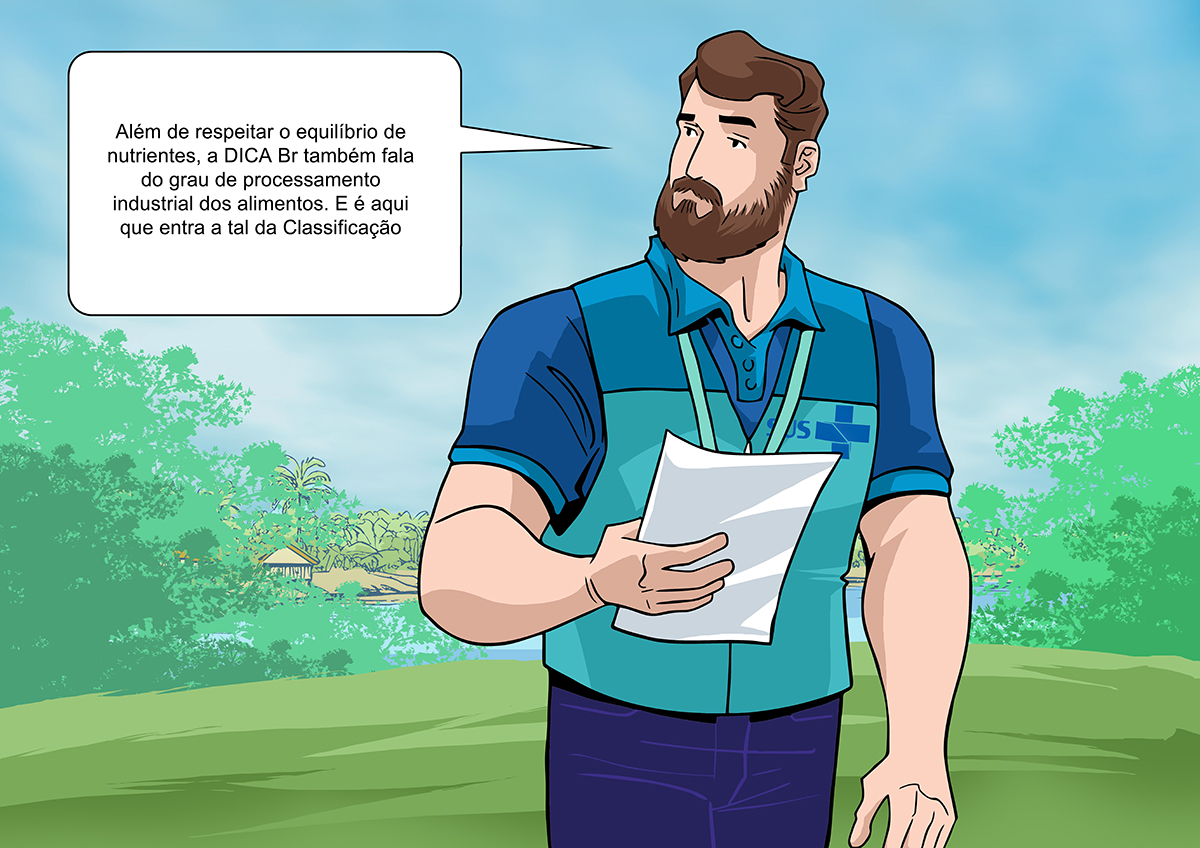
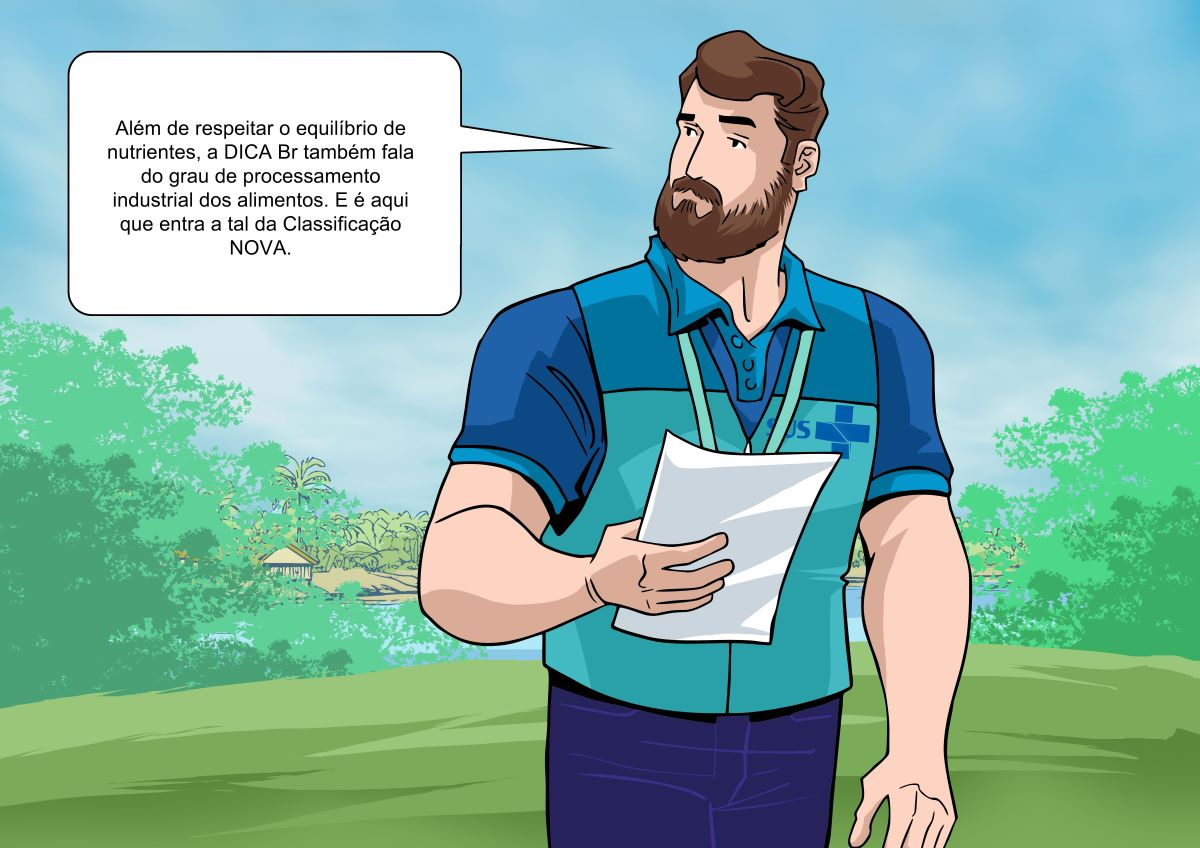
Att Thiago

diff --git a/content/thiago/aula1/topico5/index.html b/content/thiago/aula1/topico5/index.html
@@ -24,7 +24,7 @@
     A alimentação cardioprotetora brasileira ― ou DICA Br ― foi criada com alimentos da cultura local e tem como objetivo promover e proteger a saúde do coração. Ela considera a realidade das pessoas, suas receitas, o acesso aos alimentos e se baseia nos princípios do Guia Alimentar para a População Brasileira e do Guia para Crianças Menores de Dois Anos.
 </p>
 
-{{< comentario tipo = "todo">}}<p>Na imagem a seguir, o fim da fala deveria ser:</p><blockquote>E é aqui que entra a tal da Classificação <span class="text-success-emphasis text-decoration-underline">NOVA.</span></blockquote>{{< /comentario >}}
+
 {{< figure-imagem
     arquivo = "recursos/imagens/ARTE 10 copy.jpg"
     alt = "Ilustração de Thiago ao ar livre, usando colete do SUS e segurando uma folha de papel."

diff --git a/content/luana/aula2/topico5/index.html b/content/luana/aula2/topico5/index.html
@@ -17,7 +17,7 @@
     Ela decide então ligar para Thiago, educador físico da região que trabalha com grupos de atividade corporal e conhece, como poucos, os hábitos e desafios de saúde de quem vive ali. Pode ser que ele tenha pistas valiosas para o entendimento do caso.
 </p>
 
-{{< comentario tipo = "todo" >}} <p> Alterar img assim q o fabio retornar</p>
+
 {{< card
     vigiicone = "audio"
     header = "Para ouvir"
@@ -58,7 +58,6 @@
         {{< /modal >}}
     {{< /figure-audio >}}
 {{< /card >}}
-{{< /comentario >}}
 
 {{< figure-imagem
     arquivo = "recursos/imagens/ARTE 13 copy.jpg"
